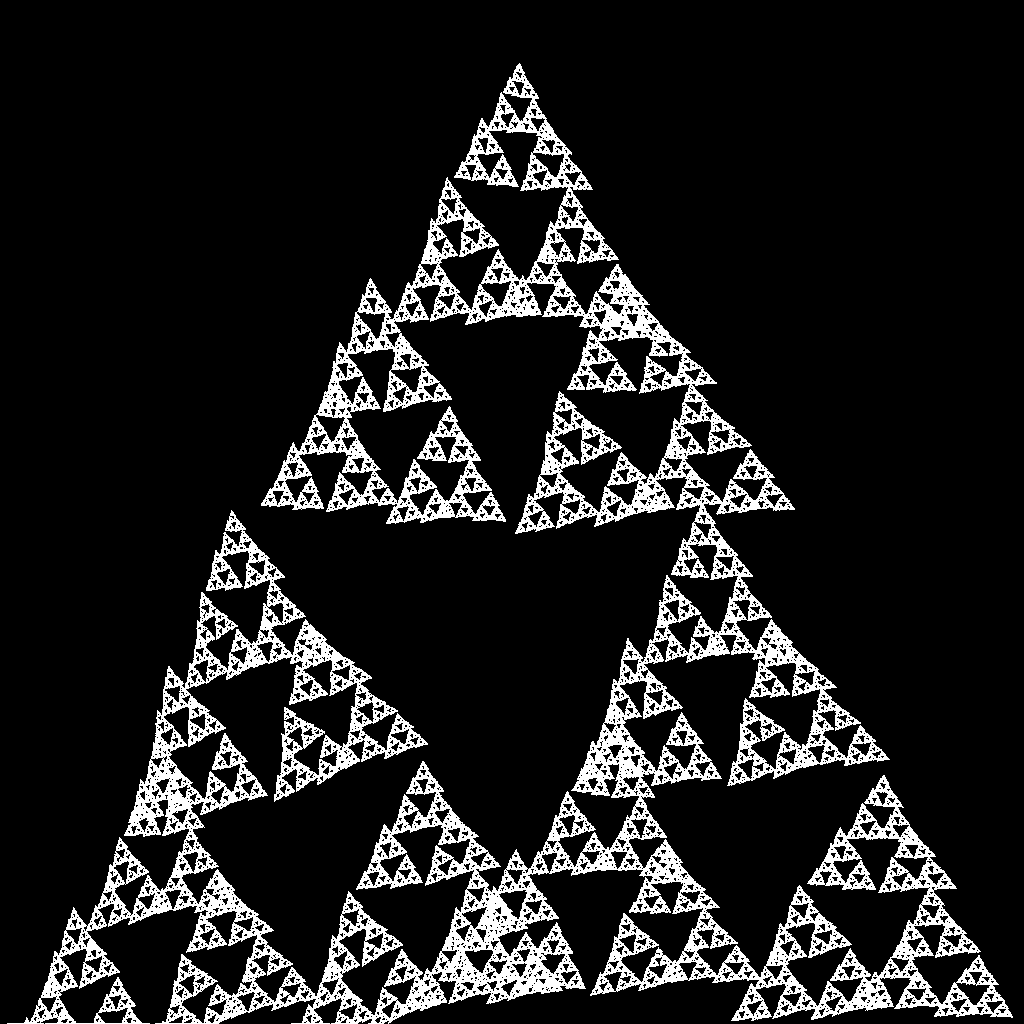
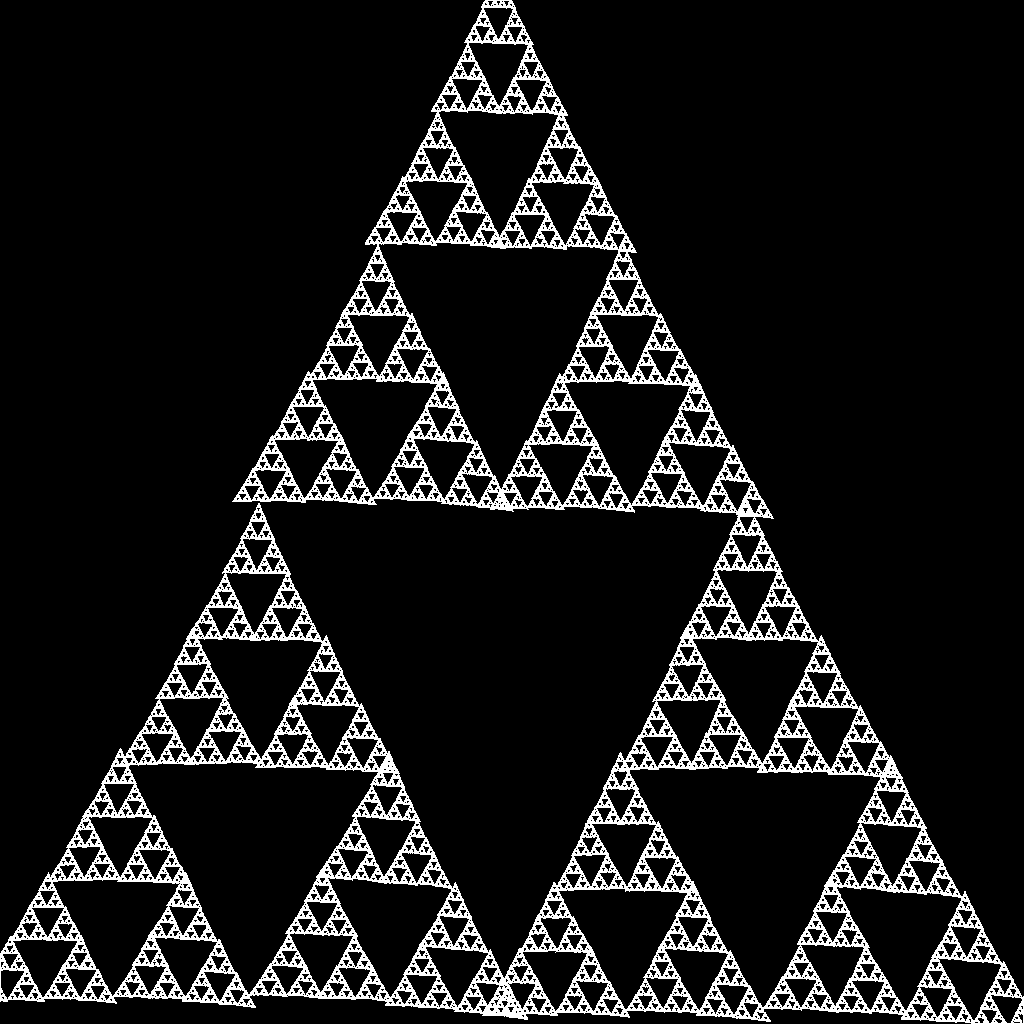
more searching

Changed region(s): [[0.0, 0.0, 1.0, 1.0]]

diff --git a/src/demo_gradients.py b/src/demo_gradients.py
@@ -14,14 +14,14 @@ from gradients import gradient_descent, greedy_descent, greedy_descent_2
 from rectangle import Rectangle, rectangles_to_function_system, rectangle_to_contiguous_affine_function, rectangles_to_vector, vectors_to_function_system, vectors_to_rectangles
 from find_fractal import error
 
-SUBSAMPLE_SIZE = 256
-NUM_STEPS = 800
-LEARNING_RATE = 2e-2
-GRADIENT_APPROXIMATION_EPSILON = 1e-2
+SUBSAMPLE_SIZE = 64
+NUM_STEPS = 2000
+LEARNING_RATE = 1e-2
+GRADIENT_APPROXIMATION_EPSILON = 1e-3
 GREEDY_STEP_SIZE = 1e-2
-N_RUNS = 20
+N_RUNS = 32
 
-STD_STRAY = 0.1
+STD_STRAY = 1e-1
 
 N_POINTS = 5 * SUBSAMPLE_SIZE * SUBSAMPLE_SIZE
 
@@ -45,7 +45,7 @@ objective_function = lambda rectangles_param_vector: error(rectangles_param_vect
 np.random.seed(0)
 param_vector_size = 5 * n_rectangles
 # initial_param_vectors = np.random.uniform(0, 1, N_RUNS * param_vector_size).reshape((N_RUNS, param_vector_size)).astype(np.float32)
-old_top_rectangles = [Rectangle(center_x=0.43559211, center_y=0.37553188, width=0.54621595, height=0.45281804, rotate_angle=0.66374946), Rectangle(center_x=0.30484405, center_y=0.8763722, width=0.5664403, height=0.4548299, rotate_angle=0.3348315), Rectangle(center_x=0.8143797, center_y=0.87052804, width=0.5524245, height=0.45184985, rotate_angle=0.3303465)]
+old_top_rectangles = [Rectangle(center_x=0.18183221, center_y=0.8518872, width=0.5413586, height=0.46516478, rotate_angle=0.6695025), Rectangle(center_x=0.67693424, center_y=0.86053306, width=0.57093024, height=0.46157643, rotate_angle=0.66512793), Rectangle(center_x=0.49311495, center_y=0.24331623, width=0.50257236, height=0.5156987, rotate_angle=1.0)]
 old_top_vector = rectangles_to_vector(old_top_rectangles)
 initial_param_vectors = (np.random.normal(0, STD_STRAY, N_RUNS * param_vector_size).reshape((N_RUNS, param_vector_size)).astype(np.float32) + old_top_vector).clip(0, 1)
 

diff --git a/src/demo_draw_squares.py b/src/demo_draw_squares.py
@@ -43,7 +43,7 @@ draw_rectangle(rectangle_2, "images/mapped_2.png")
 #     ),
 # ]
 
-rectangles = [Rectangle(center_x=0.43331647, center_y=0.3955077, width=0.52147627, height=0.46386707, rotate_angle=0.66796845), Rectangle(center_x=0.34994644, center_y=0.8730466, width=0.5898434, height=0.5004258, rotate_angle=0.3173819), Rectangle(center_x=0.79011494, center_y=0.8679324, width=0.5420968, height=0.53437376, rotate_angle=0.33699903)]
+rectangles = [Rectangle(center_x=0.25112194, center_y=0.74369967, width=0.50011814, height=0.51339436, rotate_angle=1.0), Rectangle(center_x=0.6824844, center_y=0.86980325, width=0.60112315, height=0.45811594, rotate_angle=0.6686232), Rectangle(center_x=0.4944999, center_y=0.25298727, width=0.5047151, height=0.49528512, rotate_angle=0.9975586)]
 
 for rectangle, name in zip(rectangles, ["rectangle_1.png", "rectangle_2.png", "rectangle_3.png"]):
     draw_rectangle(rectangle, f"images/{name}")
